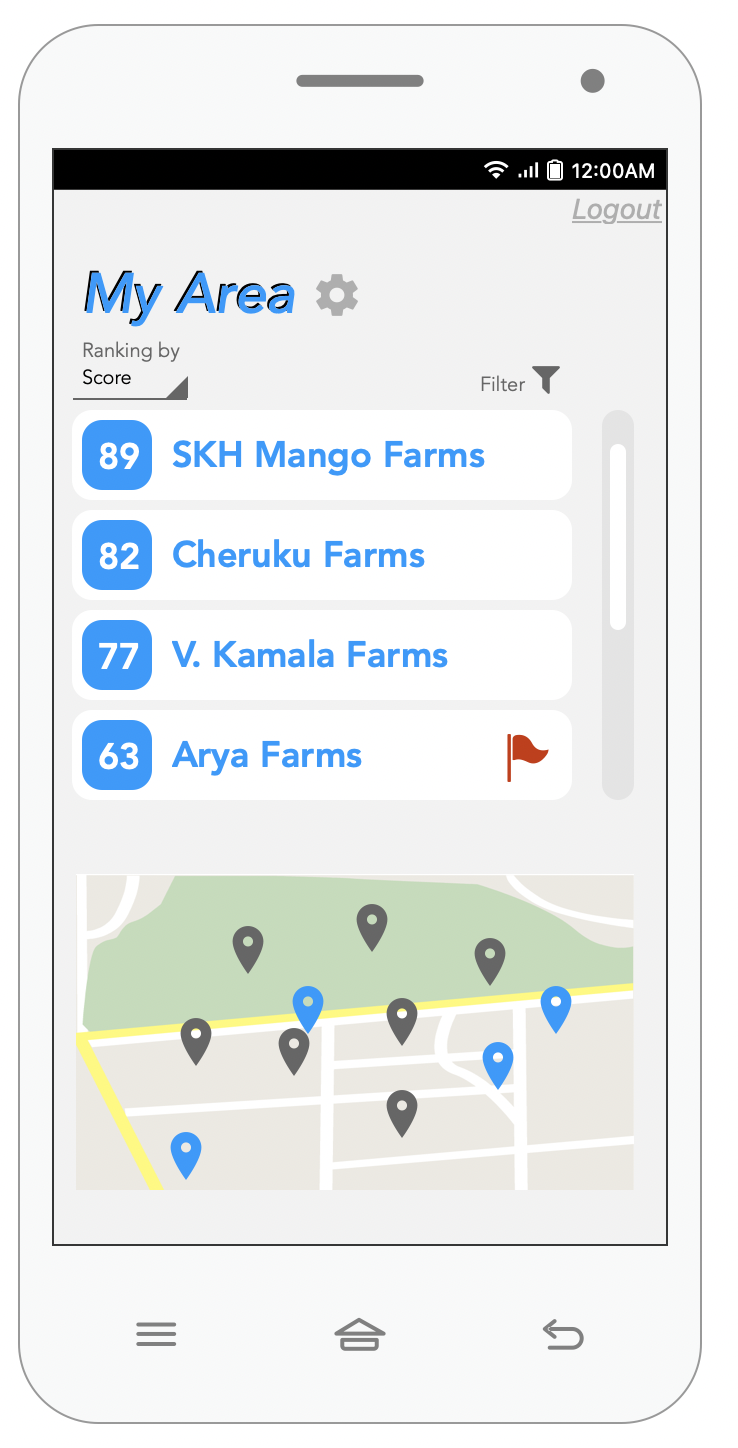
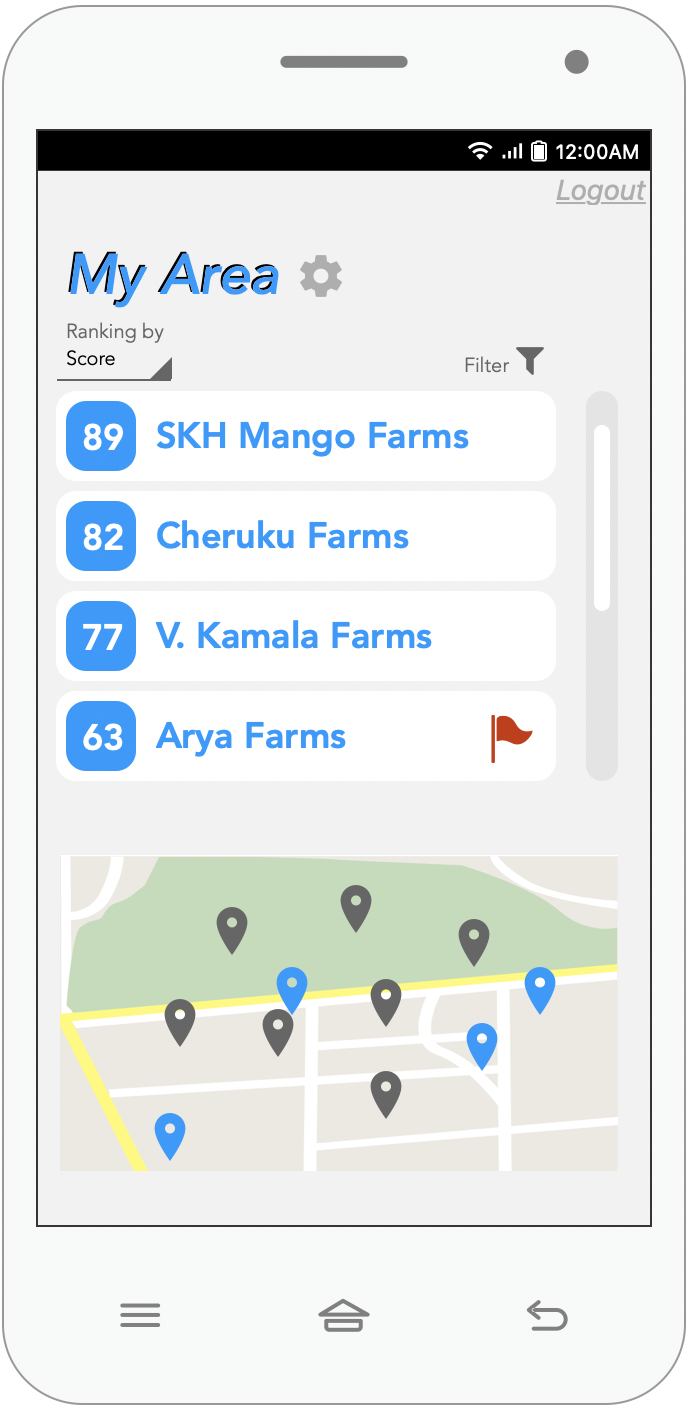
mockups allignment update

diff --git a/RasdDoc/Files/requirements.tex b/RasdDoc/Files/requirements.tex
@@ -4,85 +4,64 @@
 \subsubsection{App Mockups}
 
 
-
-\begin{figure}[htb!]
+\begin{multicols}{3}
+\begin{figure}[H]
 \centering
-\includegraphics[scale=0.6]{../images_diagrams/mock_ups/login100.png}
+\includegraphics[scale=0.35]{../images_diagrams/mock_ups/login100.png}
 \caption{\label{fig:mock_login}Login Mock Up.}
 \end{figure}
 
 
-
-
-\begin{figure}[htb!]
+\begin{figure}[H]
 \centering
-\includegraphics[scale=0.6]{../images_diagrams/mock_ups/welcomeagro100.png}
+\includegraphics[scale=0.35]{../images_diagrams/mock_ups/welcomeagro100.png}
 \caption{\label{fig:mock_agronomist}Welcome Agronomist Mock Up.}
 \end{figure}
 
 
-
-
-\begin{figure}[htb!]
+\begin{figure}[H]
 \centering
-\includegraphics[scale=0.6]{../images_diagrams/mock_ups/myarea100.png}
-\caption{\label{fig:mock_area}My Area Mock Up.}
-\end{figure}
-
-
-\begin{figure}[htb!]
-\centering
-\includegraphics[scale=0.6]{../images_diagrams/mock_ups/myplan100.png}
-\caption{\label{fig:mock_plan}My Plan Mock Up.}
-\end{figure}
-
-
-
-
-
-\begin{figure}[htb!]
-\centering
-\includegraphics[scale=0.6]{../images_diagrams/mock_ups/welcomefarmer100.png}
+\includegraphics[scale=0.35]{../images_diagrams/mock_ups/welcomefarmer100.png}
 \caption{\label{fig:mock_farmer}Welcome Farmer Mock Up.}
 \end{figure}
 
 
-
-
-
-
-\begin{figure}[htb!]
+\begin{figure}[H]
 \centering
-\includegraphics[scale=0.6]{../images_diagrams/mock_ups/farmerforum100.png}
-\caption{\label{fig:mock_forum}Farmer Forum Mock Up.}
+\includegraphics[scale=0.35]{../images_diagrams/mock_ups/myarea100.png}
+\caption{\label{fig:mock_area}My Area Agronomist Mock Up.}
 \end{figure}
 
 
-
-\begin{figure}[htb!]
+\begin{figure}[H]
 \centering
-\includegraphics[scale=0.6]{../images_diagrams/mock_ups/myfarm100.png}
+\includegraphics[scale=0.35]{../images_diagrams/mock_ups/myfarm100.png}
 \caption{\label{fig:mock_farm}My Farm Mock Up.}
 \end{figure}
 
 
-
-\begin{figure}[htb!]
+\begin{figure}[H]
 \centering
-\includegraphics[scale=0.6]{../images_diagrams/mock_ups/policydash100.png}
+\includegraphics[scale=0.35]{../images_diagrams/mock_ups/myplan100.png}
+\caption{\label{fig:mock_plan}My Plan Agronomist Mock Up.}
+\end{figure}
+
+
+\begin{figure}[H]
+\centering
+\includegraphics[scale=0.35]{../images_diagrams/mock_ups/farmerforum100.png}
+\caption{\label{fig:mock_forum}Farmer Forum Mock Up.}
+\end{figure}
+
+
+\begin{figure}[H]
+\centering
+\includegraphics[scale=0.392]{../images_diagrams/mock_ups/policydash100.png}
 \caption{\label{fig:mock_polish}Policy Maker Dashboard Mock Up.}
 \end{figure}
 
 
-
-
-
-
-
-
-
-
-
+\end{multicols}
 
 
 

diff --git a/RasdDoc/main.tex b/RasdDoc/main.tex
@@ -1,5 +1,6 @@
 \input{commandsFile}
 \usepackage{longtable} 
+\usepackage{multicol}
 \begin{document}
 
 
